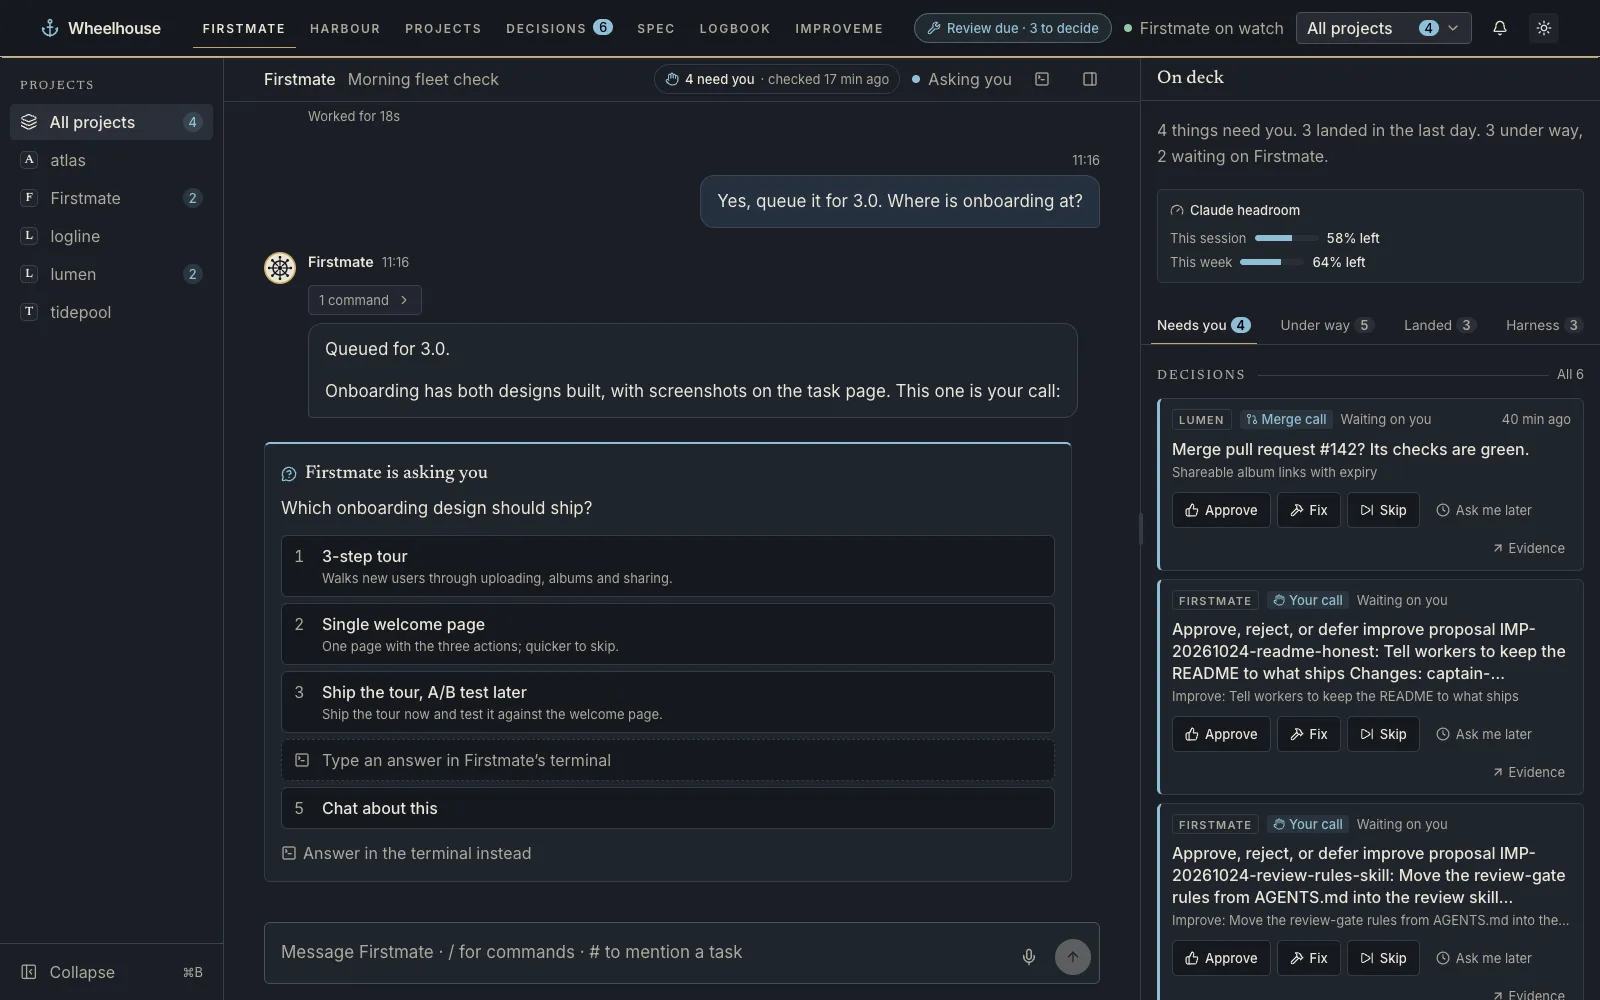
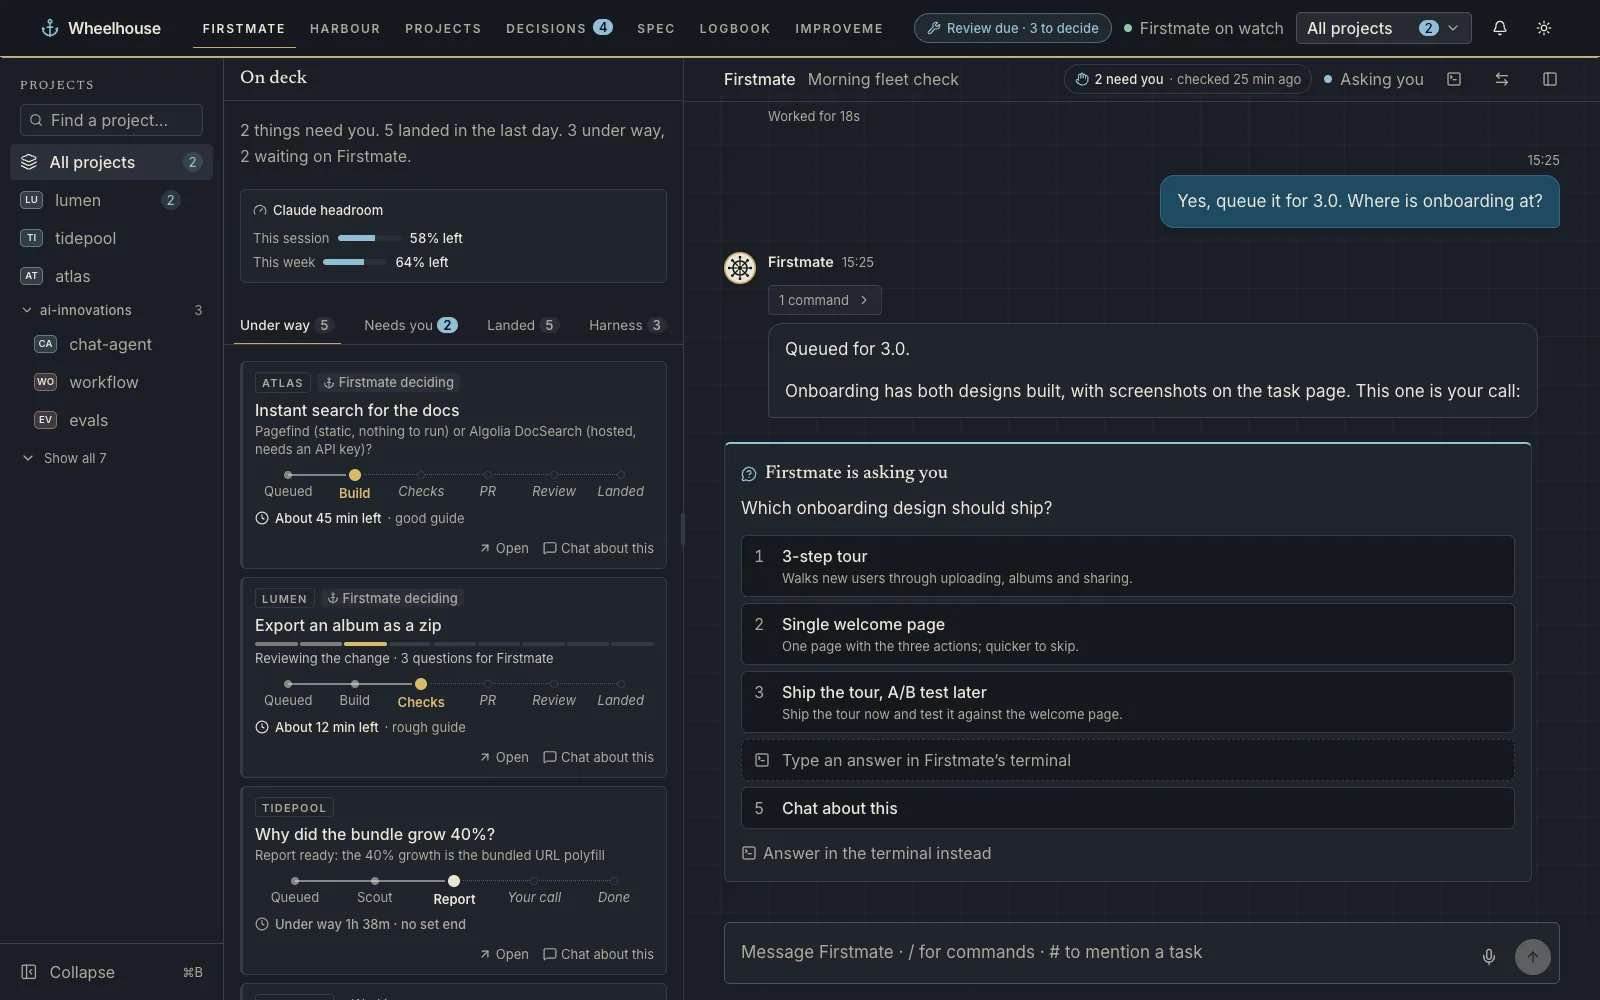
docs: retake README screenshots for the new home layout and grouped projects
Retakes every screenshot from current main against a synthetic demo crew, now
with grouped ai-innovations projects, On deck on the left and the chat on the
right, Under way as the first tab, and the flush task overview. Updates the
home and Improvements captions to match.

diff --git a/README.md b/README.md
@@ -29,7 +29,7 @@ One calm page on your own machine to talk to [Firstmate](https://github.com/kunc
 
 Wheelhouse opens in your browser at the local URL it prints.
 
-![Wheelhouse: projects in the side panel, the conversation with Firstmate in the middle with a question asked as buttons, and on the right the decisions waiting on you with one-tap answers](docs/screenshots/home.webp)
+![Wheelhouse: projects in the side panel, with related projects grouped under a shared name; On deck on the left with the work under way; and the conversation with Firstmate on the right, with a question asked as buttons](docs/screenshots/home.webp)
 
 <sub>Screenshots show a demo crew working on made-up projects.</sub>
 
@@ -88,7 +88,7 @@ Wheelhouse opens in your browser at the local URL it prints.
 
 - 📈 **Improvements.** Your harness gets better, only with your approval.
 
-  ![Improvements: a harness review is due, proposals waiting for your call, the patterns improve spotted and the size of the harness](docs/screenshots/improvements.webp)
+  ![Improvements: a harness review is due, proposals waiting for your call and the size of the harness](docs/screenshots/improvements.webp)
 
 - 🌙 **Day or night.** A calm logbook look in light, deep navy after dark.
 
